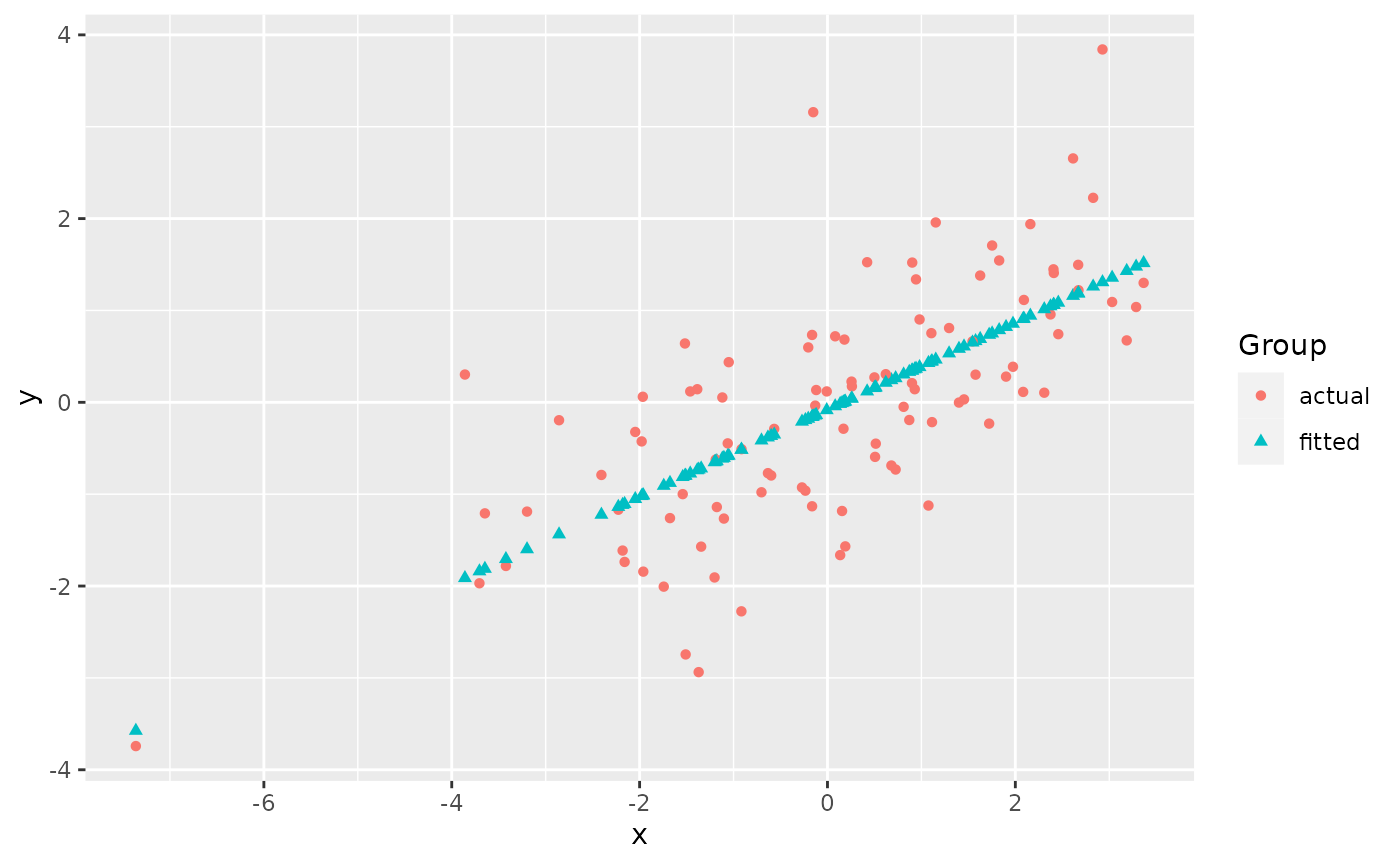
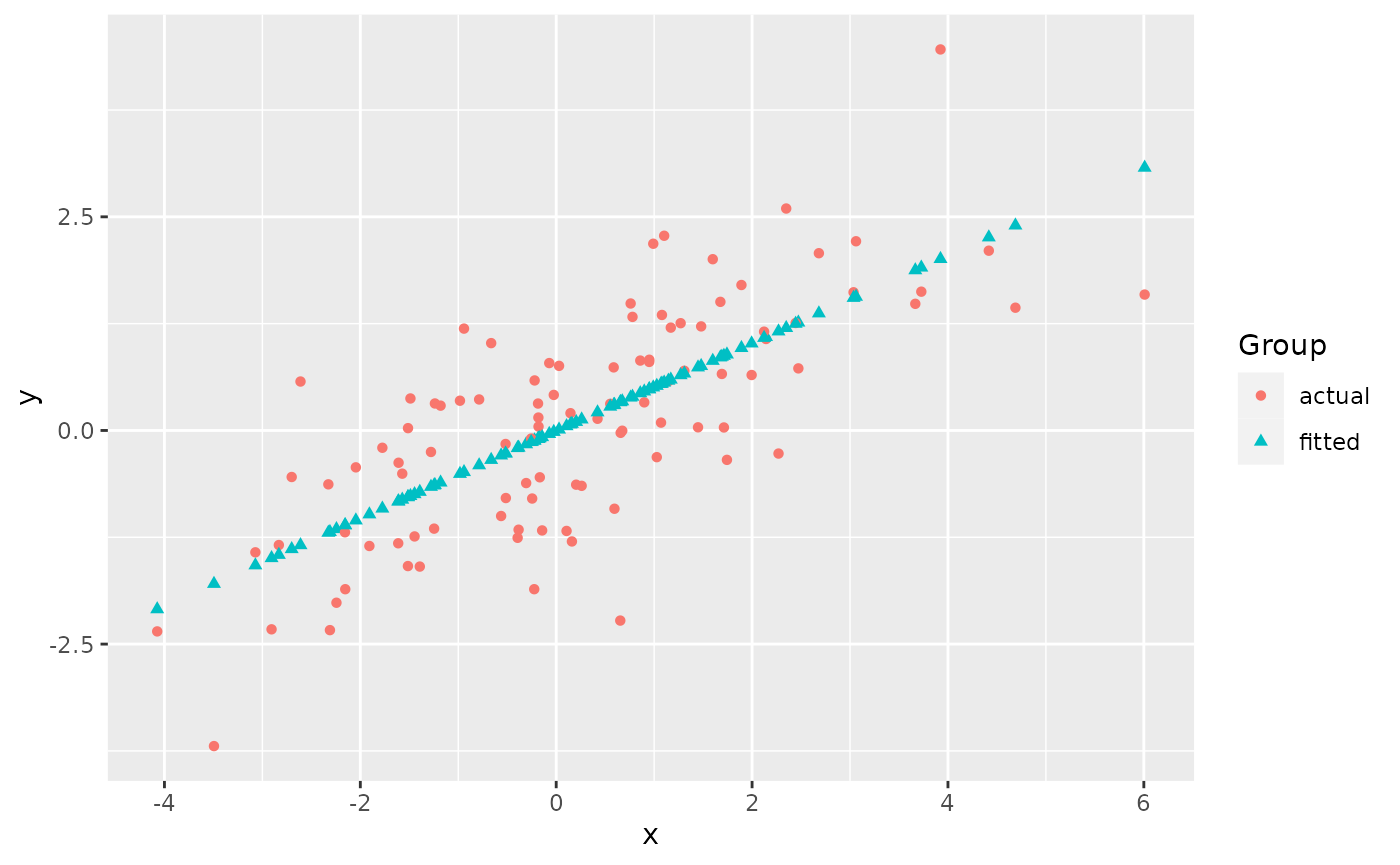
Built site for ggmatplot: 0.1.1@495ac4f

diff --git a/articles/ggmatplot.html b/articles/ggmatplot.html
@@ -103,7 +103,7 @@
 <span class="va">x</span> <span class="op">&lt;-</span> <span class="fu"><a href="https://rdrr.io/r/base/c.html" class="external-link">c</a></span><span class="op">(</span><span class="fu"><a href="https://rdrr.io/r/stats/Normal.html" class="external-link">rnorm</a></span><span class="op">(</span><span class="fl">100</span>, sd <span class="op">=</span> <span class="fl">2</span><span class="op">)</span><span class="op">)</span>
 
 <span class="fu"><a href="https://rdrr.io/r/utils/head.html" class="external-link">head</a></span><span class="op">(</span><span class="va">x</span><span class="op">)</span>
-<span class="co">#&gt; [1] -0.5670158 -0.2045380  3.1857054 -1.1192392  3.3659301  0.9425991</span>
+<span class="co">#&gt; [1] -0.3067478 -2.3263969  0.7790526  3.7279195 -2.6107936  4.4170894</span>
 
 <span class="co"># matrix z</span>
 <span class="va">y</span> <span class="op">&lt;-</span> <span class="va">x</span> <span class="op">*</span> <span class="fl">0.5</span> <span class="op">+</span> <span class="fu"><a href="https://rdrr.io/r/stats/Normal.html" class="external-link">rnorm</a></span><span class="op">(</span><span class="fl">100</span>, sd <span class="op">=</span> <span class="fl">1</span><span class="op">)</span>
@@ -112,13 +112,13 @@
            fitted <span class="op">=</span> <span class="va">fit.y</span><span class="op">)</span>
 
 <span class="fu"><a href="https://rdrr.io/r/utils/head.html" class="external-link">head</a></span><span class="op">(</span><span class="va">z</span><span class="op">)</span>
-<span class="co">#&gt;        actual     fitted</span>
-<span class="co">#&gt; 1 -0.28913428 -0.3503597</span>
-<span class="co">#&gt; 2  0.59782093 -0.1783568</span>
-<span class="co">#&gt; 3  0.67405171  1.4303811</span>
-<span class="co">#&gt; 4  0.05277882 -0.6124007</span>
-<span class="co">#&gt; 5  1.30020555  1.5159013</span>
-<span class="co">#&gt; 6  1.33824711  0.3659825</span></code></pre></div>
+<span class="co">#&gt;       actual     fitted</span>
+<span class="co">#&gt; 1 -0.6155823 -0.1611228</span>
+<span class="co">#&gt; 2 -0.6304704 -1.1961904</span>
+<span class="co">#&gt; 3  1.3291666  0.3953487</span>
+<span class="co">#&gt; 4  1.6241879  1.9066394</span>
+<span class="co">#&gt; 5  0.5726986 -1.3419434</span>
+<span class="co">#&gt; 6  2.1037027  2.2598381</span></code></pre></div>
 <p><code>ggmatplot</code> plots vector <code>x</code> against each column of matrix <code>z</code> using the default <code>plot_type = "point"</code>. This will be represented on the resulting plot as two groups, identified using different shapes and colors.</p>
 <div class="sourceCode" id="cb2"><pre class="downlit sourceCode r">
 <code class="sourceCode R"><span class="kw"><a href="https://rdrr.io/r/base/library.html" class="external-link">library</a></span><span class="op">(</span><span class="va"><a href="https://github.com/xuan-liang/ggmatplot" class="external-link">ggmatplot</a></span><span class="op">)</span>
